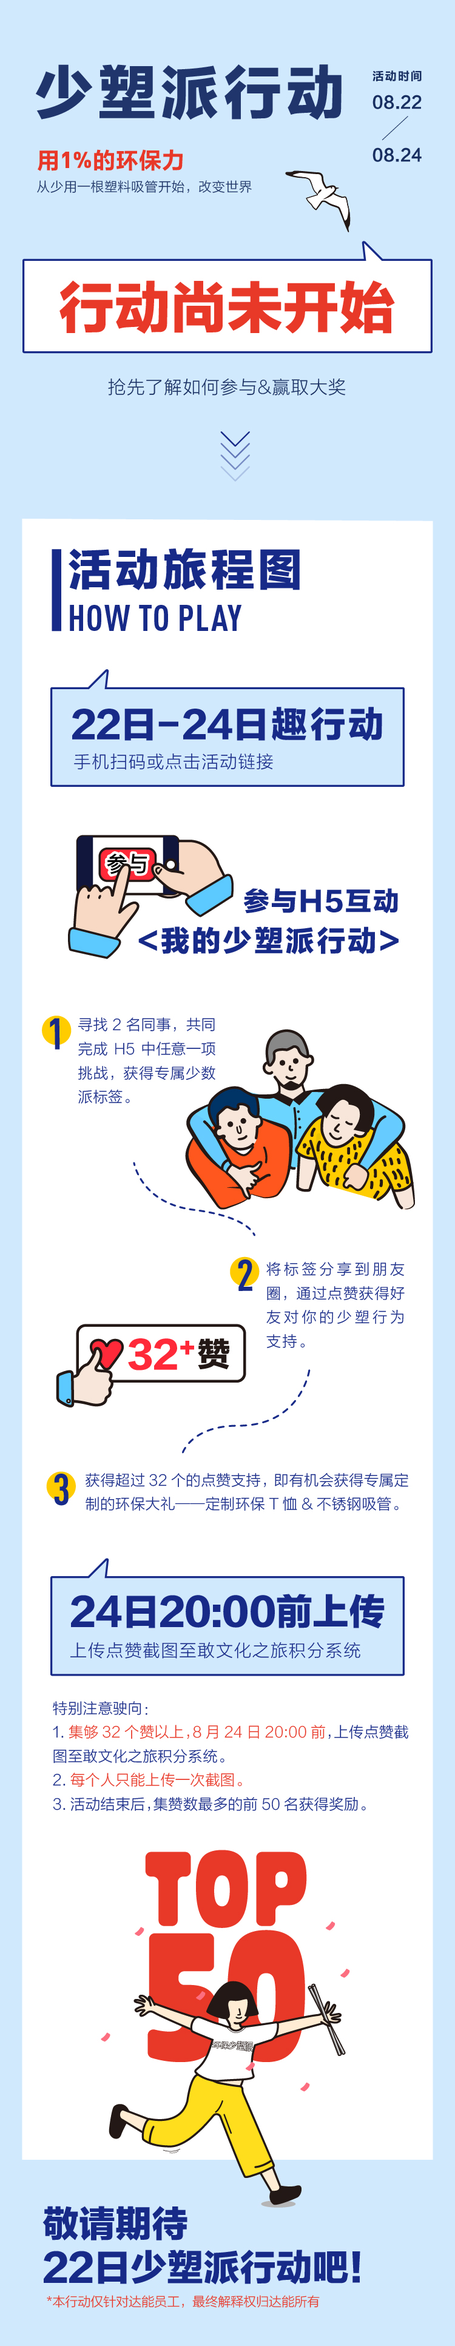
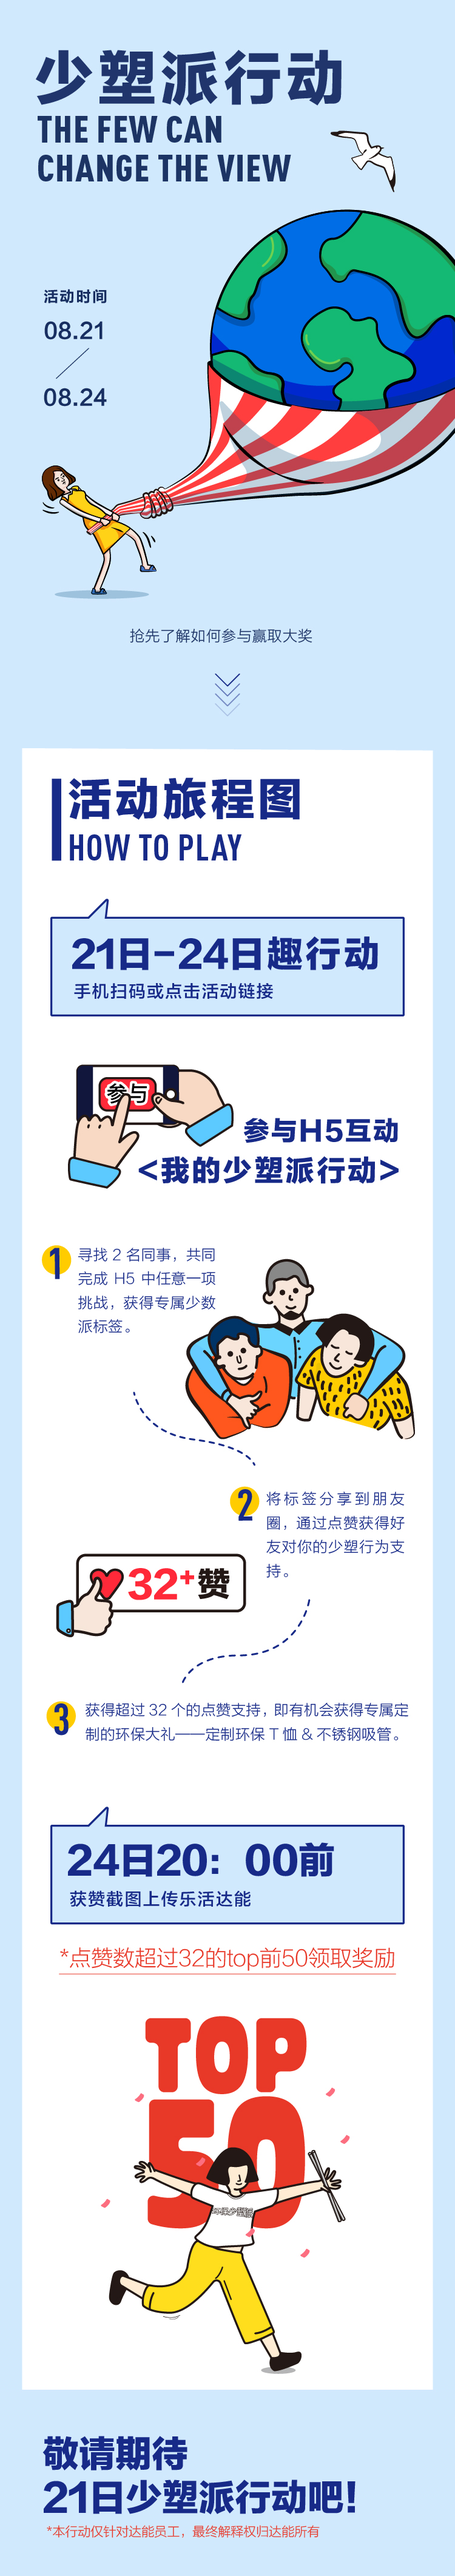
增加页面

diff --git a/src/views/danone.vue b/src/views/danone.vue
@@ -98,14 +98,13 @@
                         <div class="save_img">
                             <img v-show="activeIndex == 5 && lrzImage" :src="lrzImage" alt="">
                         </div>
-                        <div class="save_img_content" v-show="saveImgSrc">
+                        <div class="save_img_content" v-show="saveImgSrc" @touchstart="gtouchstart()" @touchmove="gtouchmove()" @touchend="gtouchend()">
                             <img :src="saveImgSrc" alt="">
                         </div>
                     </div>
                 </div>
             </div>
         </div>
-        <img style="width:750px;" src="../images/danone/not_started.jpg" alt="" v-show="!isBegin && !isOver">
         <img style="width:750px;" src="../images/danone/isOver.jpg" alt="" v-show="!isBegin && isOver">
     </div>
 </template>
@@ -202,7 +201,8 @@ export default {
             tiaozhan: require("../images/danone/01tiaozhan.png"),
             shangchuan: require("../images/danone/01shangchuan.png"),
             isBegin: false,
-            isOver: false
+            isOver: false,
+            timeOutEvent: 0 //长按时间定时器
         };
     },
     components: {
@@ -249,7 +249,10 @@ export default {
                 direction: "vertical",
                 effect: "fade",
                 speed: 300,
+                updateOnImagesReady : true,
                 setWrapperSize: true,
+                observer:true,
+                observeParents:false,
                 noSwiping: true,
                 on: {
                     slideChangeTransitionStart: function() {
@@ -376,7 +379,7 @@ export default {
             }
             this.mySwiper.slideNext();
         },
-        fanhui(){
+        fanhui() {
             this.mySwiper.slidePrev();
         },
         //上传图片
@@ -454,7 +457,7 @@ export default {
                 scale: 2
             };
             let obj = document.getElementById("badge");
-            obj.style.opacity = '1';
+            obj.style.opacity = "1";
             html2canvas(document.querySelector("#save"), opts).then(canvas => {
                 this.saveImgSrc = canvas.toDataURL("image/jpg");
             });
@@ -492,9 +495,35 @@ export default {
         initMp3() {
             var myVideo = document.getElementById("video");
             myVideo.play();
-            document.addEventListener("WeixinJSBridgeReady", function () {
-                myVideo.play();
-            }, false);
+            document.addEventListener(
+                "WeixinJSBridgeReady",
+                function() {
+                    myVideo.play();
+                },
+                false
+            );
+        },
+        //开始按
+        gtouchstart() {
+            this.timeOutEvent = setTimeout(() => {
+                this.longPress();
+            }, 500);
+            return false;
+        },
+        //手释放，如果在500毫秒内就释放，则取消长按事件，此时可以执行onclick应该执行的事件
+        gtouchend() {
+            clearTimeout(this.timeOutEvent); //清除定时器
+            return false;
+        },
+        //如果手指有移动，则取消所有事件，此时说明用户只是要移动而不是长按
+        gtouchmove() {
+            clearTimeout(this.timeOutEvent); //清除定时器
+            this.timeOutEvent = 0;
+        },
+        //真正长按后应该执行的内容
+        longPress() {
+            this.timeOutEvent = 0;
+            // alert("长按")
         },
 
         //合成图片
@@ -591,7 +620,7 @@ export default {
         top: 220px;
         left: 530px;
     }
-    @media only screen and (device-width: 375px) and (device-height: 812px) and (-webkit-device-pixel-ratio: 3){
+    @media only screen and (device-width: 375px) and (device-height: 812px) and (-webkit-device-pixel-ratio: 3) {
         .seagull {
             top: 320px;
         }
@@ -631,12 +660,12 @@ export default {
             bottom: 50px;
         }
     }
-    @media only screen and (device-width: 375px) and (device-height: 812px) and (-webkit-device-pixel-ratio: 3){
-        .earth-content{
+    @media only screen and (device-width: 375px) and (device-height: 812px) and (-webkit-device-pixel-ratio: 3) {
+        .earth-content {
             .earth {
-                top:110px;
+                top: 110px;
             }
-            .ren{
+            .ren {
                 bottom: -120px;
             }
             .yinying {
@@ -797,7 +826,7 @@ export default {
     align-items: center;
     justify-content: center;
     align-content: center;
-    .fanhui{
+    .fanhui {
         position: absolute;
         width: 50px;
         height: 50px;
@@ -1061,23 +1090,23 @@ export default {
 }
 @-webkit-keyframes seal {
     0% {
-        transform:scale(2.0);
+        transform: scale(2);
         opacity: 0;
     }
-    25%{
-        transform:scale(1.4);
+    25% {
+        transform: scale(1.4);
         opacity: 0.8;
     }
     50% {
-        transform:scale(1.2);
+        transform: scale(1.2);
         opacity: 1;
     }
-    75%{
-        transform:scale(1.1);
+    75% {
+        transform: scale(1.1);
         opacity: 1;
     }
     100% {
-        transform:scale(1.0);
+        transform: scale(1);
         opacity: 1;
     }
 }

diff --git a/src/router/index.js b/src/router/index.js
@@ -11,6 +11,13 @@ const routers = {
             title: "少塑派行动"
         },
         component: resolve => require(["../views/danone"], resolve)
+    },{
+        path: '/start',
+        name: 'start',
+        meta: {
+            title: "少塑派行动"
+        },
+        component: resolve => require(["../views/start"], resolve)
     }],
 
     createRouter(){

diff --git a/src/views/start.vue b/src/views/start.vue
@@ -1,0 +1,14 @@
+<template>
+    <div>
+        <img src="../images/danone/not_started.jpg" alt="">
+    </div>
+</template>
+<script>
+export default {
+
+}
+</script>
+<style scoped>
+
+</style>
+
